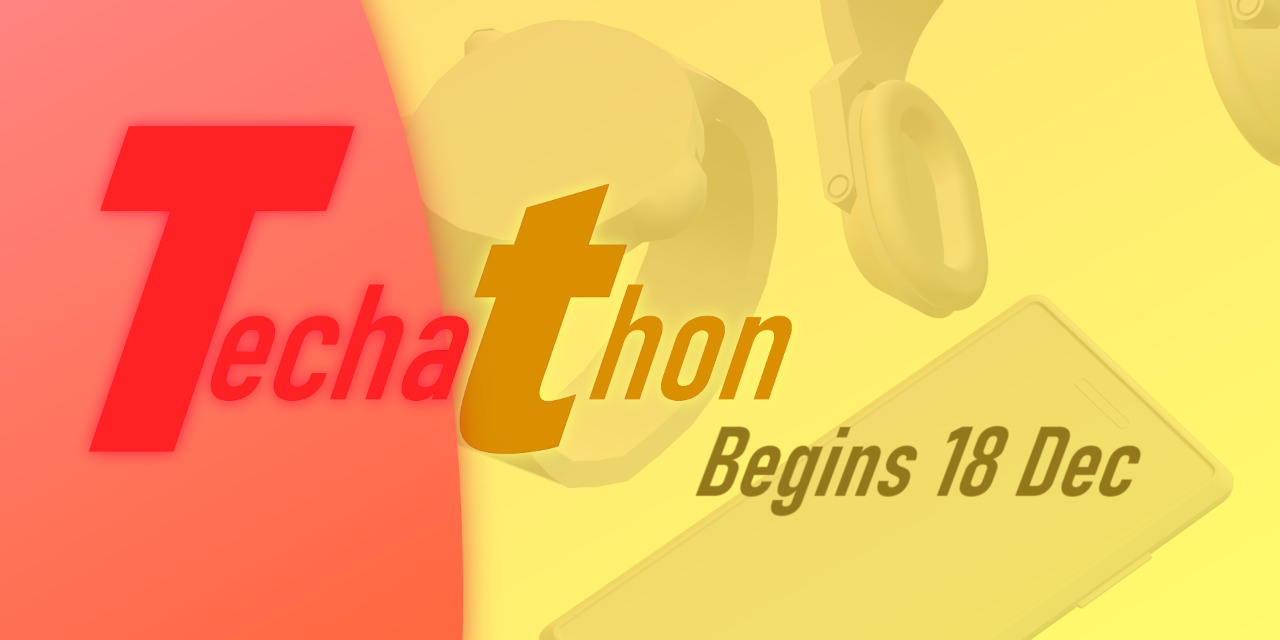
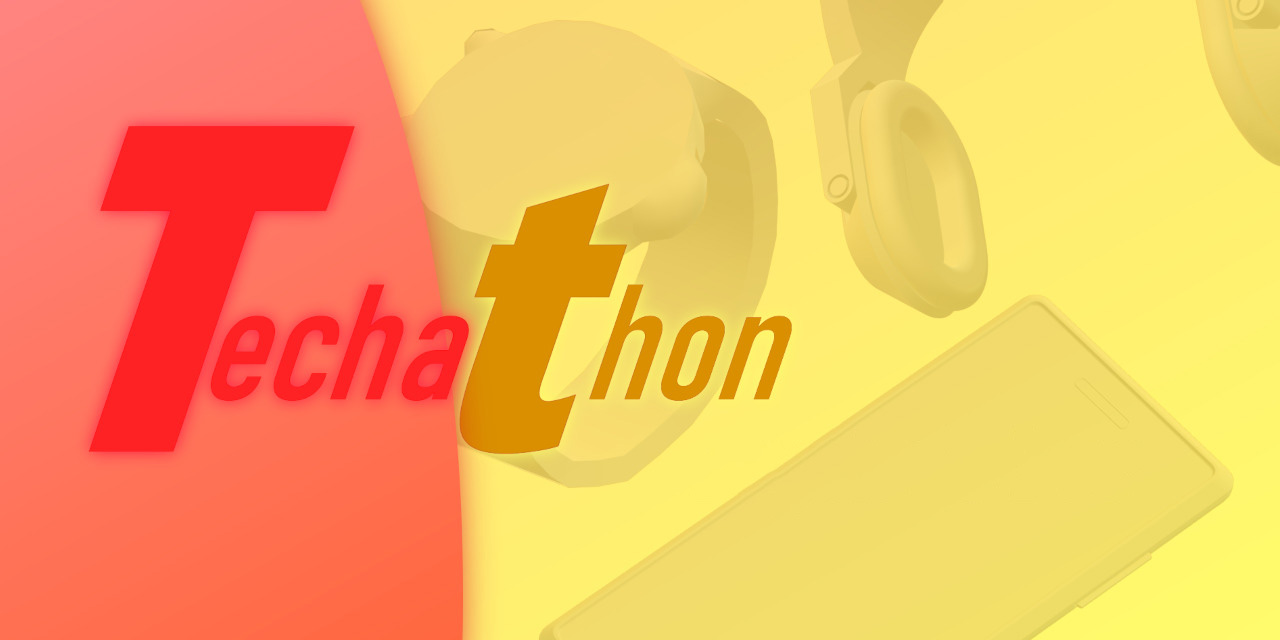
Finish site updates

Changed region(s): [[0.5312, 0.6562, 0.9062, 0.8125]]

diff --git a/index.html b/index.html
@@ -20,15 +20,13 @@
     <link rel="icon" type="image/png" sizes="96x96" href="/img/favicon-96x96.png">
     <link rel="icon" type="image/png" sizes="16x16" href="/img/favicon-16x16.png">
     <link rel="manifest" href="/manifest.json">
-    <meta name="msapplication-TileColor" content="#5cc3fb">
-    <meta name="msapplication-TileImage" content="/img/ms-icon-144x144.png">
     <meta name="theme-color" content="#5cc3fb">
     <!-- Description tags -->
-    <meta name="description" content="Techathon is a charity livestream by the tech community set for December 18th, supporting Direct Relief.">
-    <meta name="keywords" content="techathon, tech, livestream, charity, Direct Relief">
+    <meta name="description" content="Techathon is a charity livestream by the tech community supporting the National Network of Abortion Funds.">
+    <meta name="keywords" content="techathon, tech, livestream, charity, National Network of Abortion Funds">
     <meta name="language" content="English">
     <meta name="twitter:card" content="summary_large_image">
-    <meta name="twitter:title" content="Techathon: Starting December 18th">
+    <meta name="twitter:title" content="Techathon: Starting August 6, 2022">
     <meta name="twitter:site" content="@techathonlive">
     <meta name="twitter:image" content="http://techathon.live/img/techathon-social.jpg">
     <!-- CSS -->
@@ -79,7 +77,7 @@
             <!-- Buttons -->
             <div class="col-lg-4 col-md-12 display-6 text-center">
                 <div class="mt-xl-5 mt-lg-3 mt-5">
-                    Techathon is a charity livestream by the tech community, supporting Direct Relief.
+                    Techathon is a charity livestream by the tech community, supporting the National Network of Abortion Funds.
                 </div>
             </div>
         </div>
@@ -104,11 +102,11 @@
         <div class="row mt-5">
             <div class="col-lg-6 col-md-12 mb-3 mb-lg-0">
                 <h3 class="text-center">The charity</h3>
-                <a href="https://www.directrelief.org/" target="_blank">Direct Relief</a> works in the U.S. and internationally to equip doctors and nurses with life-saving medical resources. The organization operates in 80+ countries and all 50 U.S. states, from providing wildfire aid in California to distributing COVID-19 vaccines worldwide.
+                The <a href="https://abortionfunds.org/" target="_blank">National Network of Abortion Funds</a> works in the United States to remove financial and logistical barriers to abortion access. The network distributes funds across more than 80 local organizations, helping with transportation, translation, and much more.
             </div>
             <div class="col-lg-6 col-md-12">
                 <h3 class="text-center">The event</h3>
-                <p>We're planning two livestreams (one on December 18, one on December 19) with journalists, YouTubers, and other people in the tech community you might already know. Expect games, chats with viewers, and much more! We're using the <a href="https://tiltify.com/direct-relief" target="_blank">Tiltify</a> platform for donations, so the money goes directly to Direct Relief.</p>
+                <p>We're planning two livestreams (one on August 6 and another August 7) with journalists, YouTubers, and other people in the tech community you might already know. Expect games, chats with viewers, and much more! We're using the <a href="https://tiltify.com/abortionfunds" target="_blank">Tiltify</a> platform for donations, so the money goes directly to the organization.</p>
             </div>
         </div>
 
@@ -138,7 +136,7 @@
                     <img src="img/adam.jpg" alt="">
                 </a>
                 <h4>Adam Conway</h4>
-                <p>Adam is a senior editor and video producer at <a href="https://www.xda-developers.com/" target="_blank">XDA Developers</a>, and the Editor-in-Chief of <a href="https://www.irishtech.ie" target="_blank">IrishTech</a>.</p>
+                <p>Adam is Senior Technical Editor at <a href="https://www.xda-developers.com/" target="_blank">XDA Developers</a>, and the Editor-in-Chief of <a href="https://www.irishtech.ie" target="_blank">IrishTech</a>.</p>
             </div>
             <!-- Person 2 -->
             <div class="col-12 col-xl-6 mt-3">
@@ -146,7 +144,7 @@
                     <img src="img/corbin.jpg" alt="">
                 </a>
                 <h4>Corbin Davenport</h4>
-                <p>Corbin is a senior news writer at <a href="https://www.xda-developers.com/" target="_blank">XDA Developers</a>, and previously worked for <a href="https://www.androidpolice.com/" target="_blank">Android Police</a> and <a href="https://https://www.pcgamer.com/">PC Gamer</a>.</p>
+                <p>Corbin is the News Editor at <a href="https://www.howtogeek.com" target="_blank">How-To Geek</a>, and previously worked at <a href="https://www.androidpolice.com/" target="_blank">Android Police</a>, <a href="https://www.xda-developers.com/" target="_blank">XDA Developers</a>, and <a href="https://https://www.pcgamer.com/">PC Gamer</a>.</p>
             </div>
             <!-- Person 3 -->
             <div class="col-12 col-xl-6 mt-3">
@@ -154,7 +152,7 @@
                     <img src="img/jules.jpg" alt="">
                 </a>
                 <h4>Jules Wang</h4>
-                <p>Jules is a journalist at <a href="https://www.androidpolice.com/" target="_blank">Android Police</a>, and formerly worked at <a href="https://pocketnow.com/">PocketNow</a>.</p>
+                <p>Jules is the Weekend News Editor at <a href="https://www.androidpolice.com/" target="_blank">Android Police</a>, and formerly worked at <a href="https://pocketnow.com/">PocketNow</a>.</p>
             </div>
             <!-- Person 4 -->
             <div class="col-12 col-xl-6 mt-3">
@@ -186,7 +184,7 @@
         <!-- Footer -->
 
         <div class="text-muted text-center mt-5">
-            Techathon is not directly affiliated with Direct Relief or any of the publications/companies metioned on this page.
+            Techathon is not directly affiliated with the National Network of Abortion Funds or any of the publications/companies metioned on this page.
         </div>
 
     </div>

diff --git a/history.html b/history.html
@@ -20,15 +20,13 @@
     <link rel="icon" type="image/png" sizes="96x96" href="/img/favicon-96x96.png">
     <link rel="icon" type="image/png" sizes="16x16" href="/img/favicon-16x16.png">
     <link rel="manifest" href="/manifest.json">
-    <meta name="msapplication-TileColor" content="#5cc3fb">
-    <meta name="msapplication-TileImage" content="/img/ms-icon-144x144.png">
     <meta name="theme-color" content="#5cc3fb">
     <!-- Description tags -->
-    <meta name="description" content="Techathon is a charity livestream by the tech community set for December 18th, supporting Direct Relief.">
-    <meta name="keywords" content="techathon, tech, livestream, charity, Direct Relief">
+    <meta name="description" content="Techathon is a charity livestream by the tech community supporting the National Network of Abortion Funds.">
+    <meta name="keywords" content="techathon, tech, livestream, charity, National Network of Abortion Funds">
     <meta name="language" content="English">
     <meta name="twitter:card" content="summary_large_image">
-    <meta name="twitter:title" content="Techathon: Starting December 18th">
+    <meta name="twitter:title" content="Techathon: Starting August 6, 2022">
     <meta name="twitter:site" content="@techathonlive">
     <meta name="twitter:image" content="http://techathon.live/img/techathon-social.jpg">
     <!-- CSS -->
@@ -120,7 +118,7 @@
         </div>
         <!-- Footer -->
         <div class="text-muted text-center mt-5">
-            Techathon is not affiliated with Direct Relief or any of the publications metioned on this page.
+            Techathon is not directly affiliated with the National Network of Abortion Funds or any of the publications/companies metioned on this page.
         </div>
     </div>
 
